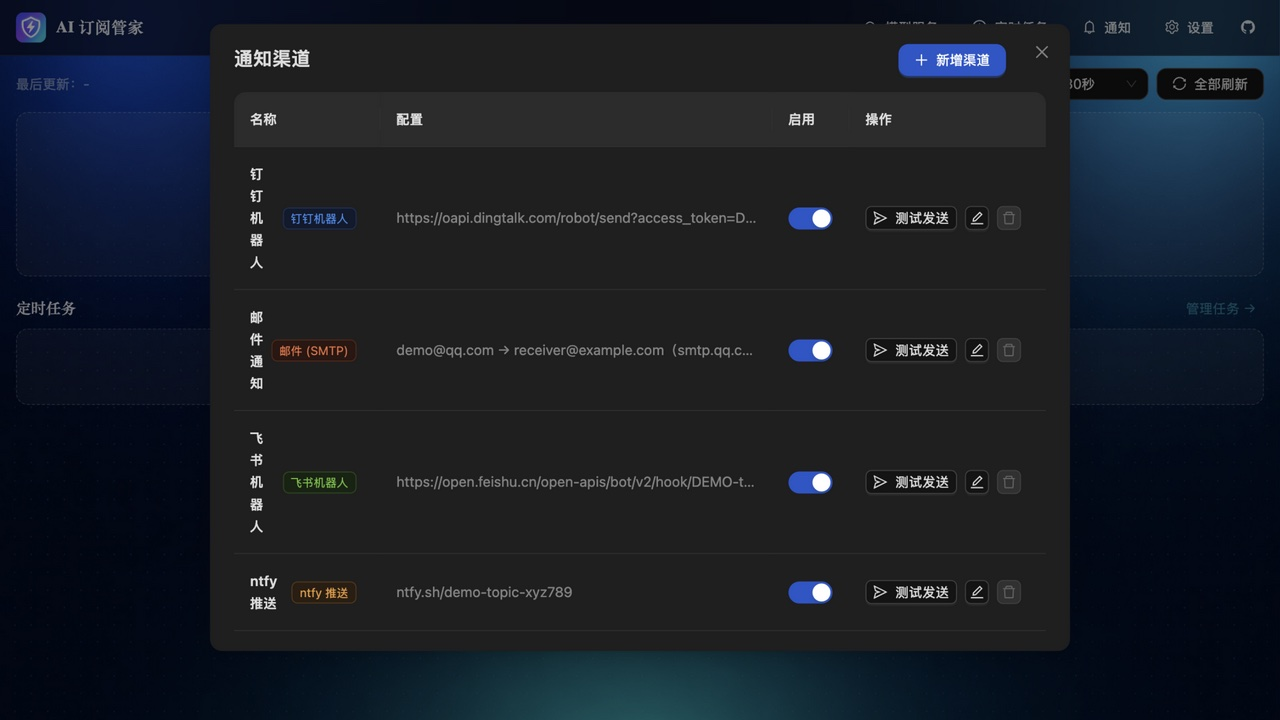
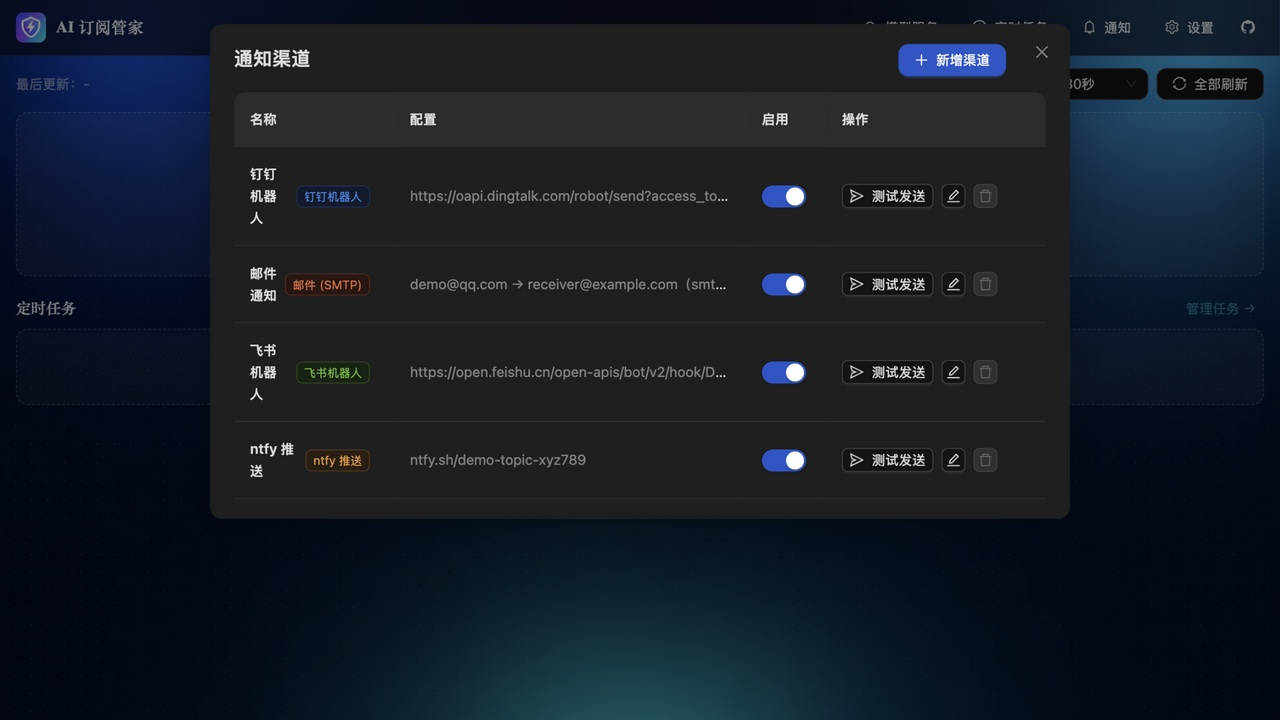
fix: 通知表格名称列宽度修复 + 重新截图
名称列未设宽度，配置列长 URL 把名称挤到一字一行。
给名称列固定 width:160，配置列改用列级 ellipsis 自动截断。

diff --git a/web/src/pages/notifications/index.tsx b/web/src/pages/notifications/index.tsx
@@ -493,6 +493,7 @@ export default function NotificationsPage() {
           {
             title: '名称',
             dataIndex: 'name',
+            width: 160,
             render: (v, r) => (
               <Space>
                 <Typography.Text strong>{v}</Typography.Text>
@@ -502,8 +503,9 @@ export default function NotificationsPage() {
           },
           {
             title: '配置',
+            ellipsis: true,
             render: (_, r) => (
-              <Typography.Text type="secondary" ellipsis style={{ maxWidth: 360 }}>
+              <Typography.Text type="secondary">
                 {r.type === 'dingtalk' || r.type === 'feishu' || r.type === 'wecom'
                   ? r.webhook
                   : r.type === 'telegram'
